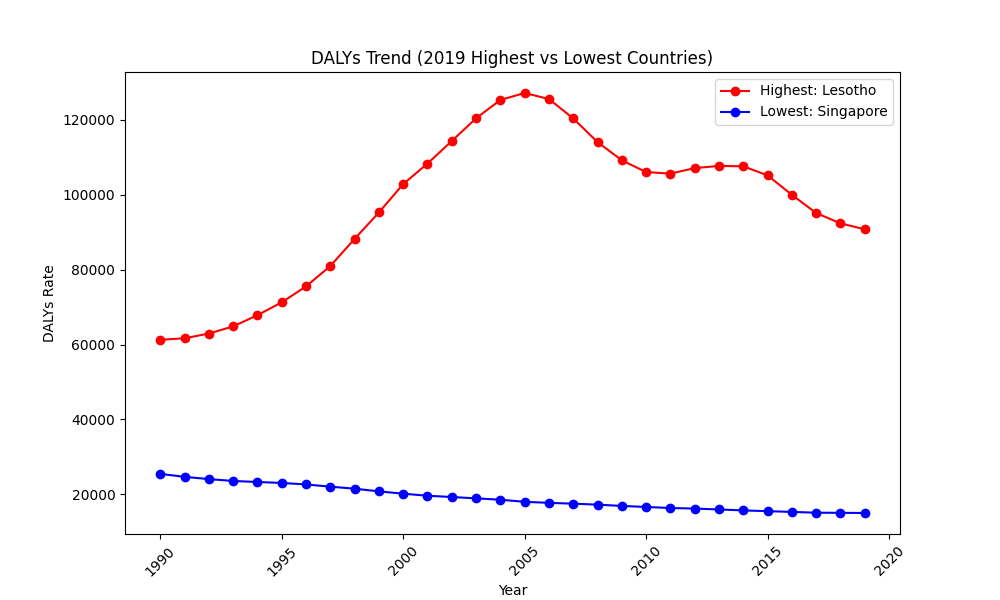
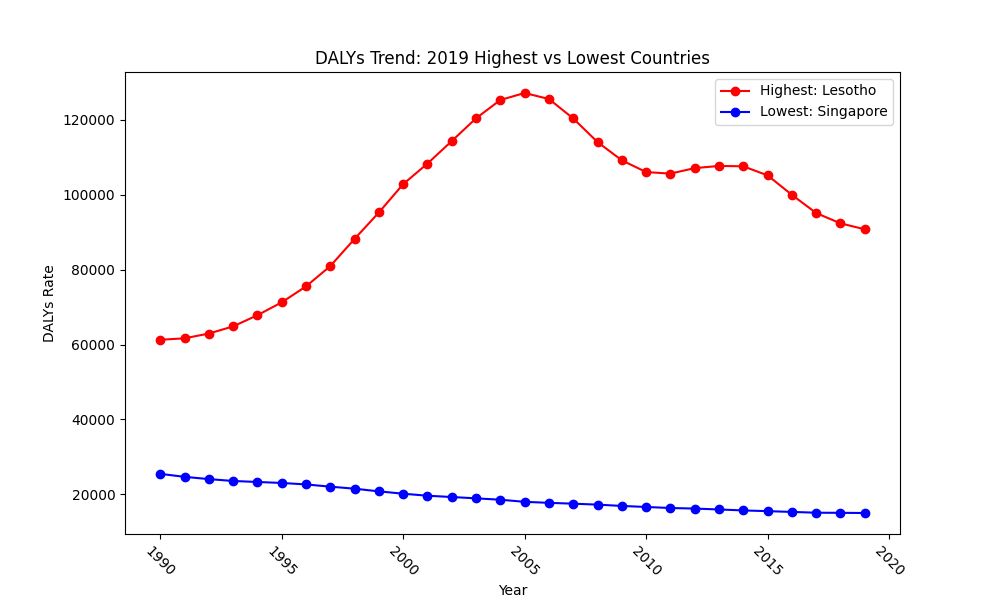
adjust some details to follow instructions

diff --git a/Practical10/dalys.py b/Practical10/dalys.py
@@ -1,62 +1,65 @@
-# Import required libraries
+# Step 1: Import all required libraries (follow guide)
+import os
 import pandas as pd
 import matplotlib.pyplot as plt
+import numpy as np
 
-# Load CSV file from the same folder
-df = pd.read_csv("dalys-rate-from-all-causes.csv")
+# Step 2: Load CSV from same folder (no path change needed)
+dalys_data = pd.read_csv("dalys-rate-from-all-causes.csv")
 
-# Required output: Basic dataset check
-print("===== Dataset Head =====")
-print(df.head())
+# Step 3: Basic dataframe inspection (follow guide)
+print("===== Dataset Head (5 rows) =====")
+print(dalys_data.head(5))
+
 print("\n===== Dataset Info =====")
-df.info()
-# Required: Only show DALYs statistics
-print("\n===== DALYs Descriptive Statistics =====")
-print(df["DALYs"].describe())
+dalys_data.info()
 
-# 1. Required: First 10 rows (Year and DALYs)
-print("\n===== First 10 Rows (Year & DALYs) =====")
-first_10 = df.iloc[:10, [2, 3]]
+print("\n===== DALYs Descriptive Statistics =====")
+print(dalys_data["DALYs"].describe())
+
+# Step 4: Show Year & DALYs (3rd & 4th columns) for first 10 rows
+print("\n===== First 10 rows: Year & DALYs =====")
+first_10 = dalys_data.iloc[0:10, [2, 3]]
 print(first_10)
 
-# Comment: Max DALYs year for Afghanistan in first 10 records: 1998
-afg_data = df[df["Entity"] == "Afghanistan"].iloc[:10]
+# Comment: Max DALYs year in Afghanistan first 10 records: 1998
+afg_data = dalys_data[dalys_data["Entity"] == "Afghanistan"].iloc[0:10]
 afg_max_year = afg_data.loc[afg_data["DALYs"].idxmax(), "Year"]
 
-# 2. Required: Select all data for Zimbabwe
-print("\n===== Zimbabwe Data (First 5 Rows) =====")
-zim_data = df[df["Entity"] == "Zimbabwe"][["Year", "DALYs"]]
+# Step 5: Boolean selection for Zimbabwe (follow guide)
+zim_bool = dalys_data["Entity"] == "Zimbabwe"
+zim_data = dalys_data.loc[zim_bool, ["Year", "DALYs"]]
+print("\n===== Zimbabwe Data (first 5 rows) =====")
 print(zim_data.head())
-# Comment: Zimbabwe data time range: 1990 - 2019
+# Comment: Zimbabwe data period: 1990 - 2019
 
-# 3. Required: Max and Min DALYs countries in 2019
-data_2019 = df[df["Year"] == 2019]
-max_country = data_2019.loc[data_2019["DALYs"].idxmax(), "Entity"]
-min_country = data_2019.loc[data_2019["DALYs"].idxmin(), "Entity"]
-print(f"\n===== 2019 Results =====")
+# Step 6: Get 2019 max & min DALYs countries (follow guide)
+recent_data = dalys_data.loc[dalys_data.Year == 2019, ["Entity", "DALYs"]]
+max_country = recent_data.loc[recent_data["DALYs"].idxmax(), "Entity"]
+min_country = recent_data.loc[recent_data["DALYs"].idxmin(), "Entity"]
+print("\n===== 2019 Results =====")
 print(f"Country with highest DALYs: {max_country}")
 print(f"Country with lowest DALYs: {min_country}")
 
-# 4. Required: Plot trend for max and min country in ONE figure + save
-max_trend = df[df["Entity"] == max_country]
-min_trend = df[df["Entity"] == min_country]
+# Step 7: Plot trend for max & min country in ONE figure
+max_trend = dalys_data[dalys_data["Entity"] == max_country]
+min_trend = dalys_data[dalys_data["Entity"] == min_country]
 
 plt.figure(figsize=(10, 6))
-plt.plot(max_trend["Year"], max_trend["DALYs"], "r-o", label=f"Highest: {max_country}")
-plt.plot(min_trend["Year"], min_trend["DALYs"], "b-o", label=f"Lowest: {min_country}")
+plt.plot(max_trend.Year, max_trend.DALYs, "r-o", label=f"Highest: {max_country}")
+plt.plot(min_trend.Year, min_trend.DALYs, "b-o", label=f"Lowest: {min_country}")
 plt.xlabel("Year")
 plt.ylabel("DALYs Rate")
-plt.title("DALYs Trend (2019 Highest vs Lowest Countries)")
+plt.title("DALYs Trend: 2019 Highest vs Lowest Countries")
 plt.legend()
-plt.xticks(rotation=45)
+plt.xticks(rotation=-45)
 plt.savefig("max_min_trend.png")
 plt.close()
 
-# Self-defined Task (Required)
+# Step 8: Self-defined task (follow guide question)
 # Question: What was the distribution of DALYs across all countries in 2019?
 plt.figure(figsize=(8, 5))
-# Use histogram for more intuitive distribution
-plt.hist(data_2019["DALYs"].dropna(), bins=20, color="skyblue", edgecolor="black")
+plt.hist(recent_data["DALYs"].dropna(), bins=20, color="skyblue", edgecolor="black")
 plt.xlabel("DALYs Rate")
 plt.ylabel("Number of Countries")
 plt.title("Distribution of DALYs Across All Countries in 2019")
